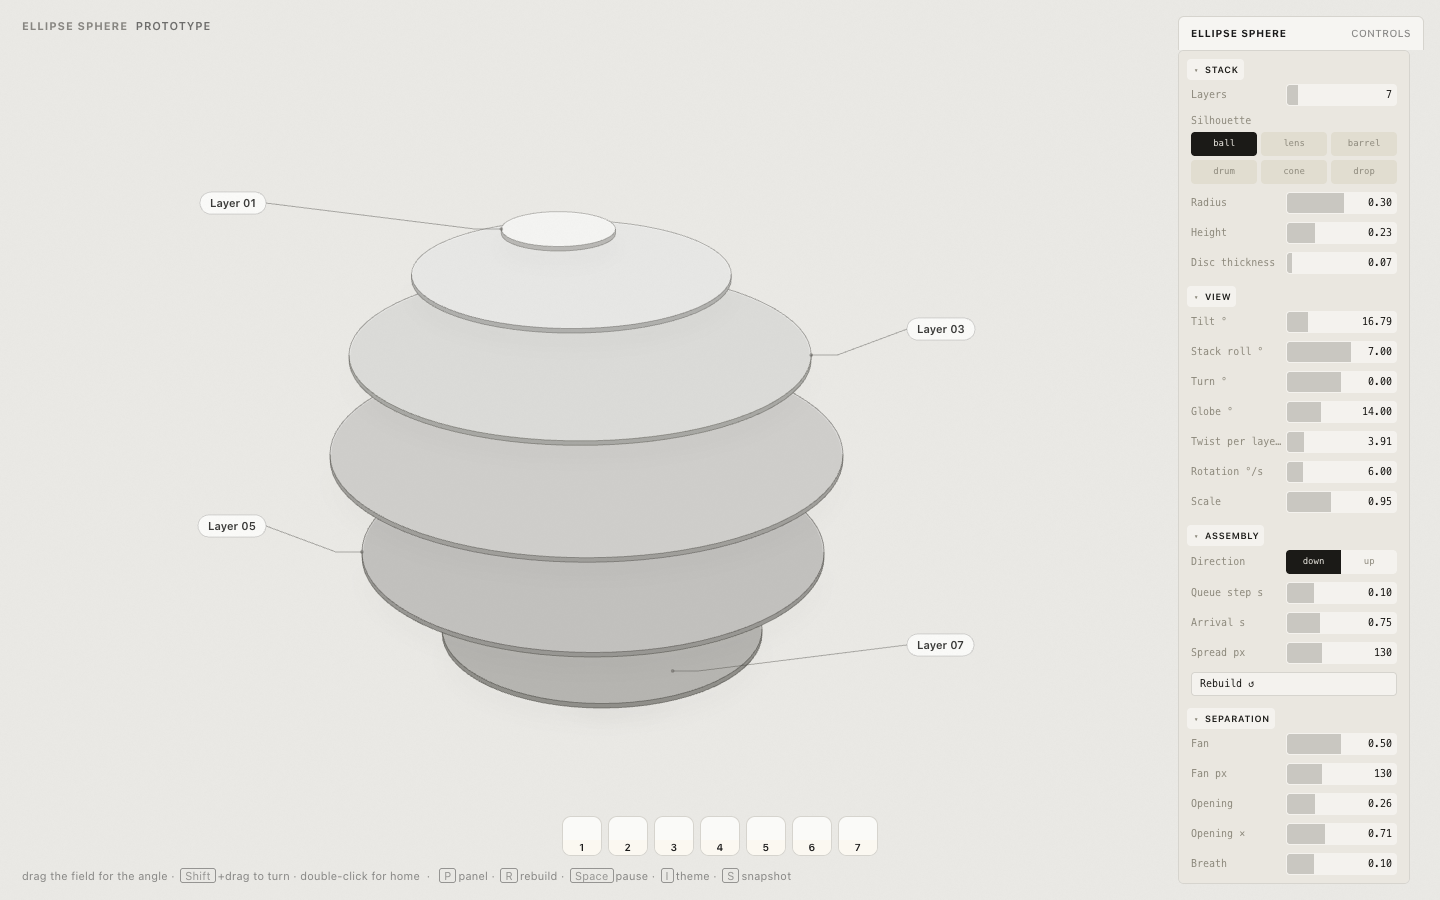
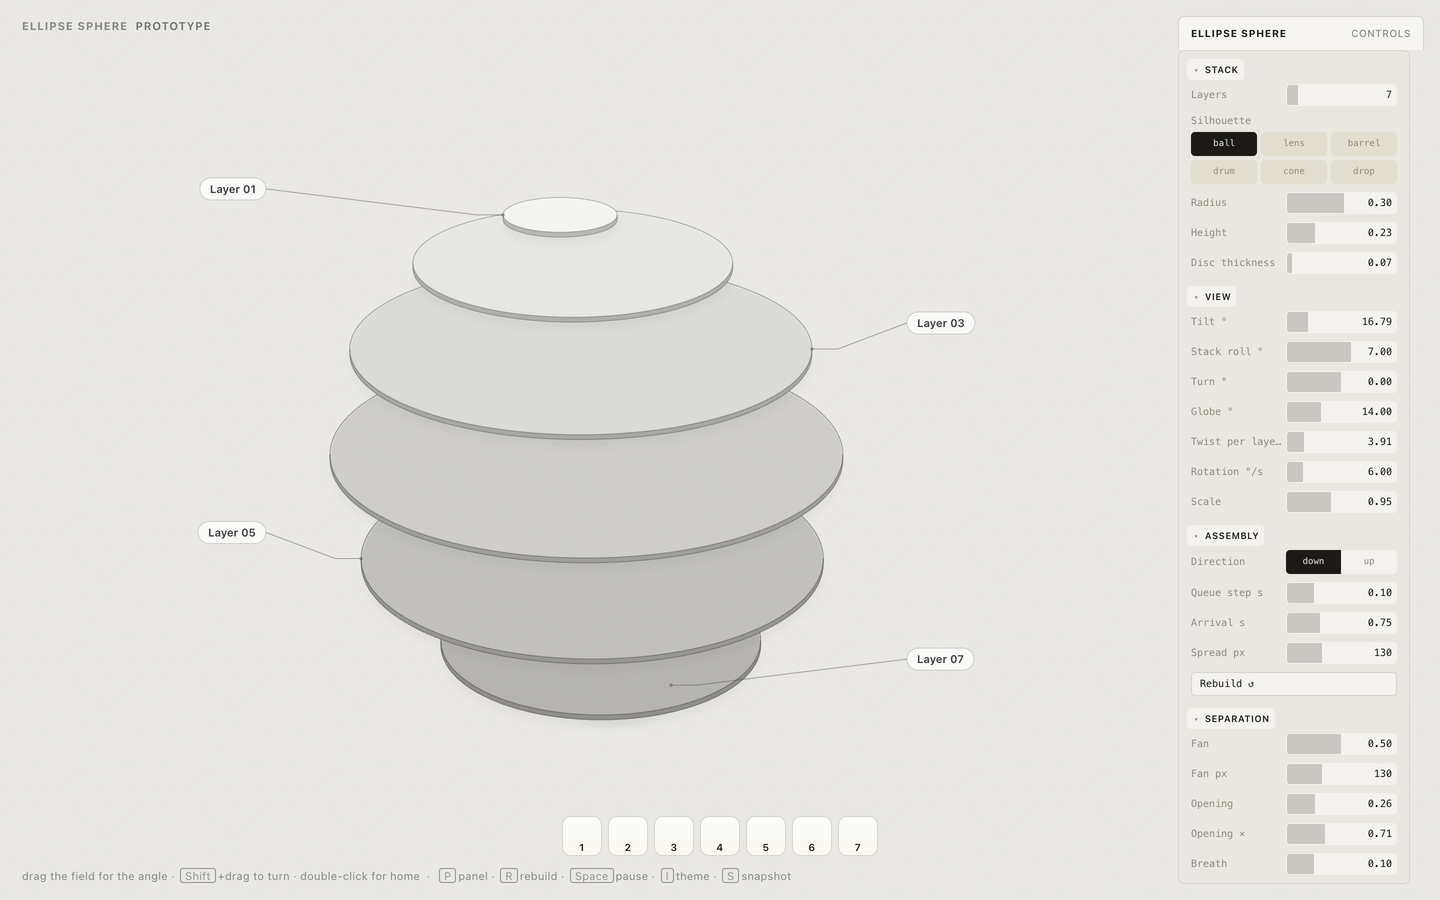
Cover, preview and search-friendly description

diff --git a/index.html b/index.html
@@ -122,7 +122,7 @@ legend{font:600 10.5px var(--h-sans);letter-spacing:.07em;color:var(--h-ink3)}
 #mtrans button[aria-pressed="true"]{background:var(--h-ink);color:var(--h-bg)}
 :focus-visible{outline:2px solid var(--h-ring);outline-offset:1px}
 </style>
[2 lines of base64/hex data omitted]
 </head>
 <body>
 <canvas id="cv"></canvas>

diff --git a/README.md b/README.md
@@ -19,6 +19,11 @@
 
 A sphere sliced into discs. Stack them, twist them, fan them open on hover, pull one out on click, label the layers and call them out.
 
+## Use it for
+
+- a layered product or platform diagram
+- an interactive "how it is built" section
+
 ## What it does
 
 - **Silhouettes:** ball, lens, barrel, drop and cone, with any number of layers
@@ -39,26 +44,26 @@ Take it if you want it.
 
 ## More tools
 
+- [GONE](https://github.com/robvagin/gone-player) · a macOS player for the thirty minutes before a DJ set
+- [PSP Engine](https://github.com/robvagin/shar-psp-engine) · a native engine that runs a PS2 game on the PSP. Not an emulator
 - [Particle Dance](https://github.com/robvagin/particle-dance) · particles that dance along patterns and 3D forms
+- [XYZ Cube](https://github.com/robvagin/xyz-cube) · your data as points in a 3D cube on axes you name
+- [Pack Label](https://github.com/robvagin/pack-label) · coffee bag labels, checked and ready for print
+- [Image Shuffler](https://github.com/robvagin/image-shuffler) · your screenshots flying in 3D, recorded as a video
+- [Sunburst](https://github.com/robvagin/sunburst) · a hierarchy as a 3D sunburst chart with height
+- [Halftone Cloud](https://github.com/robvagin/halftone-cloud) · images rebuilt as a halftone of flying shapes
+- [Motion Primer](https://github.com/robvagin/motion-primer) · bodies that swarm, orbit, fall and gather into a word
 - [Murmur](https://github.com/robvagin/murmur-vj) · a VJ visualizer: circles, triangles and squares that move to your music
+- [Particles 3D](https://github.com/robvagin/particles-3d) · a WebGL2 cloud of up to 300,000 particles
+- [Thinking Sphere](https://github.com/robvagin/thinking-sphere) · a glass sphere with soft shapes drifting inside
+- [Line Engine](https://github.com/robvagin/line-engine) · engraved line patterns in motion: Lissajous, rosettes, waves
 - [Orbital](https://github.com/robvagin/orbital) · data as orbits, axes or a bending mesh
 - [Metaballs](https://github.com/robvagin/metaballs) · soft masses that merge, split and leave holes
-- [Halftone Cloud](https://github.com/robvagin/halftone-cloud) · images rebuilt as a halftone of flying shapes
 - [Logomachine](https://github.com/robvagin/logomachine) · seeded generative marks: one seed, one pattern, always
-- [Motion Primer](https://github.com/robvagin/motion-primer) · bodies with behaviors: swarm, pack, magnet, orbit, fall, scatter
-- [Particles 3D](https://github.com/robvagin/particles-3d) · a WebGL2 cloud of up to 300,000 particles
-- [Orb Atom](https://github.com/robvagin/orb-atom) · glass orbs that think: lenses with soft bodies drifting inside
-- [Thinking Sphere](https://github.com/robvagin/thinking-sphere) · a glass sphere with soft shapes drifting inside
-- [SphereGen](https://github.com/robvagin/spheregen) · a glass sphere that bends whatever is behind it: generative scenes, photos, video
-- [Line Engine](https://github.com/robvagin/line-engine) · engraved line patterns: superformulas, rosettes, waves and Lissajous, in motion
-- [XYZ Cube](https://github.com/robvagin/xyz-cube) · your data as points in a 3D cube on axes you name
 - [Hexbin](https://github.com/robvagin/hexbin) · a point cloud counted into 3D hexagon towers
 - [Chart 3D](https://github.com/robvagin/chart-3d) · pie, bars, polar and area charts in 3D, with an entrance
-- [Sunburst](https://github.com/robvagin/sunburst) · a hierarchy as a 3D sunburst with height
 - [Voronoi](https://github.com/robvagin/voronoi) · points that share space as cells, inside any shape
-- [Image Shuffler](https://github.com/robvagin/image-shuffler) · your screens flying in 3D, ready to record as a video
 - [Motion Pad](https://github.com/robvagin/motion-pad) · one pad for the character of motion
-- [Pack Label](https://github.com/robvagin/pack-label) · one label per coffee lot, checked and ready for print
 
 ## License
 
